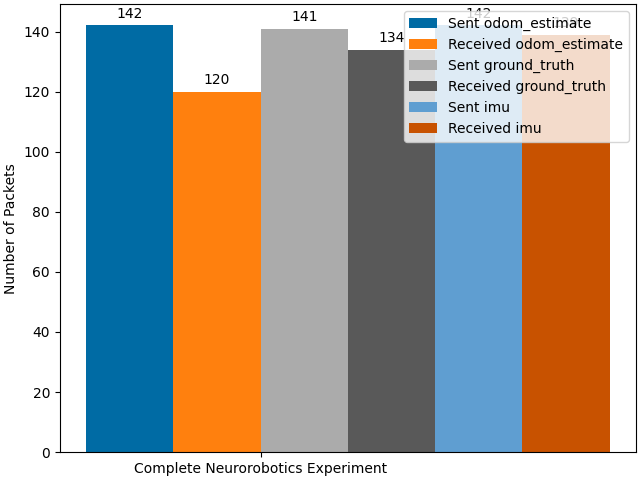
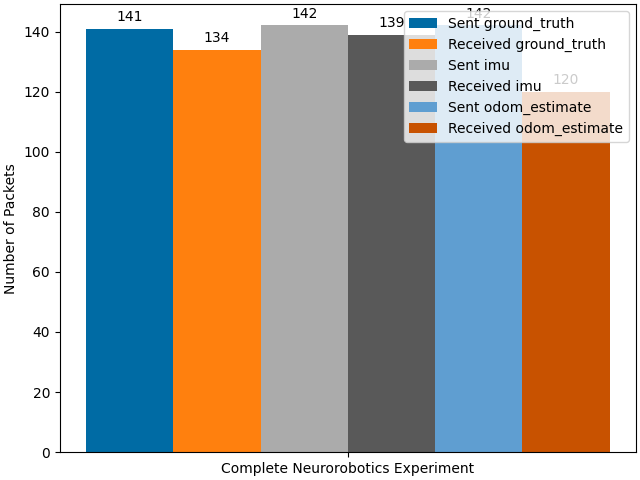
Combined graphs for neurorobotics experiments

diff --git a/metrics/metric_4_neurorobotics.py b/metrics/metric_4_neurorobotics.py
@@ -6,6 +6,7 @@ import common.plot
 import common.run
 
 import time
+import numpy as np
 
 """
 This metric measures the system load during physics and brain simulation.
@@ -38,6 +39,13 @@ def process_data():
     """
     Parses and analysis the system load results data file.
     """
+
+    combined = { common.plot.DROPPED_PACKETS          : {},
+                 common.plot.DROPPED_PACKET_PERCENT   : {},
+                 common.plot.CPU_MEAN                 : {},
+                 common.plot.MEMORY_MEAN              : {},
+                 common.plot.SIM_TIME_PERCENT_OF_REAL : {} }
+
     for name, alias in data_paths.items():
 
         print("~~~~~~~~~~~~~~~~~~~~~~~~~~~~~~~~~~~~~~~~~~")
@@ -55,7 +63,9 @@ def process_data():
         real_time_offsets = [s - real_time_samples[0] for s in real_time_samples]
         sim_time_samples = sim_time_parser.samples()
         sim_time_samples = [s - sim_time_samples[0] for s in sim_time_samples]
-        print(f"Average Time Ratio: {sim_time_samples[-1] / real_time_offsets[-1]}")
+        speed = sim_time_samples[-1] / real_time_offsets[-1]
+        combined[common.plot.SIM_TIME_PERCENT_OF_REAL][alias] = speed * 100
+        print(f"Average Time Ratio: {speed}")
         common.plot.line(f"results_data/4_neurorobotics_{name}_real_vs_simulated_time_series.png",
                         real_time_offsets,
                         sim_time_samples,
@@ -63,25 +73,32 @@ def process_data():
                         "Simulated Time (seconds)")
 
         print("==== Dropped Packets NeuROS -> NeuROS ====")
-        combined = { "Complete Neurorobotics Experiment" :
-            common.data.dropped_packet_summary(data, aliases={"odom_correction" : "head_dir_prediction"})}
-        common.plot.sent_received_packets(combined, f"results_data/4_neurorobotics_{name}_packet_counts.png")
+        pkt_loss = common.data.dropped_packet_summary(data, aliases={"odom_correction" : "head_dir_prediction"})
+        combined[common.plot.DROPPED_PACKETS][alias] = pkt_loss
+        combined[common.plot.DROPPED_PACKET_PERCENT][alias] = common.data.dropped_packet_percentage(pkt_loss)
+        common.plot.sent_received_packets(
+            { "Complete Neurorobotics Experiment" : pkt_loss},
+            f"results_data/4_neurorobotics_{name}_packet_counts.png")
 
         print("==== CPU ====")
+        cpus = []
         labels, datasets = common.plot.all_cpu_time_series(
             data_path, f"results_data/4_neurorobotics_{name}_cpu_time_series.png")
         for label, data in zip(labels, datasets):
             print(f"____ {label} ____")
-            common.data.basic_stats(data)
+            cpus.append(common.data.basic_stats(data)[0])
+        combined[common.plot.CPU_MEAN][alias] = np.mean(cpus)
 
         print("==== Memory Consumption ====")
         common.plot.memory_consumption_time_series(
             data_path, f"results_data/4_neurorobotics_{name}_memory_percent_time_series.png")
+        memory = []
         labels, datasets = common.plot.memory_consumption_time_series(
             data_path, f"results_data/4_neurorobotics_{name}_memory_absolute_time_series.png", percent=False)
         for label, data in zip(labels, datasets):
             print(f"____ {label} ____")
-            common.data.basic_stats(data)
+            memory.append(common.data.basic_stats(data)[0])
+        combined[common.plot.MEMORY_MEAN][alias] = np.mean(memory)
 
         print("==== Network ====")
         labels, datasets = common.plot.network_speeds_time_series(
@@ -89,6 +106,33 @@ def process_data():
         for label, data in zip(labels, datasets):
             print(f"____ {label} ____")
             common.data.basic_stats(data)
+
+    common.plot.sent_received_packets(
+        combined[common.plot.DROPPED_PACKETS],
+        "results_data/4_neurorobotics_combined_packet_counts.png",
+        xlabelrot=90)
+
+    common.plot.horizontal_bar(
+        "results_data/4_neurorobotics_combined_packet_delivered.png",
+        combined[common.plot.DROPPED_PACKET_PERCENT],
+        xlabel="Packets Delivered (%)")
+
+    common.plot.horizontal_bar(
+        "results_data/4_neurorobotics_combined_cpu_utilisation.png",
+        combined[common.plot.CPU_MEAN],
+        xlabel="Mean CPU Utilisation (%)")
+
+    common.plot.horizontal_bar(
+        "results_data/4_neurorobotics_combined_memory_consumption.png",
+        combined[common.plot.MEMORY_MEAN],
+        xlabel="Mean Memory Consumption (GB)")
+
+    common.plot.horizontal_bar(
+        "results_data/4_neurorobotics_percent_of_real_time_speed.png",
+        combined[common.plot.SIM_TIME_PERCENT_OF_REAL],
+        xlabel="Sim Speed as Percentage of Real Time (%)")
+
+    return combined
 
 if __name__ == '__main__':
     create_data()

diff --git a/metrics/common/plot.py b/metrics/common/plot.py
@@ -5,8 +5,12 @@ import numpy as np
 
 import common.data
 
-#main_colour = "teal"
-#plt.style.use('seaborn-v0_8-pastel')
+DROPPED_PACKETS = "Packet Loss"
+DROPPED_PACKET_PERCENT = "Packet Loss Rate"
+CPU_MEAN = "Mean CPU Utilisation"
+MEMORY_MEAN = "Mean Memory Consumption"
+SIM_TIME_PERCENT_OF_REAL = "Percentage of Real Time Speed"
+
 plt.style.use('tableau-colorblind10')
 
 def histogram(path, data, x_axis, relative_frequency=False, bins=20, xlimits=None, ylimits=None):
@@ -18,8 +22,8 @@ def histogram(path, data, x_axis, relative_frequency=False, bins=20, xlimits=Non
         plt.ylim(ylimits)
     if relative_frequency:
         data = np.array(data)
-        ax.hist(data, 
-                bins=bins, 
+        ax.hist(data,
+                bins=bins,
                 weights=np.zeros_like(data) + 100.0 / data.size)
         ax.set_ylabel('Frequency (%)', size=12)
     else:
@@ -52,7 +56,7 @@ def multi_line(path, all_labels, all_x, all_y, x_axis, y_axis):
     plt.savefig(path)
     plt.close()
 
-def multi_time_series(path, datasets, labels, y_axis, y_lim=[], 
+def multi_time_series(path, datasets, labels, y_axis, y_lim=[],
                       y_log_scale=False):
     fig = plt.figure()
     ax = fig.add_subplot(111)
@@ -86,11 +90,11 @@ def all_cpu_time_series(from_path, to_path, range_start=0, range_stop=-1):
         to_path, datasets, labels, "CPU Usage (%)", [0, 100])
     return labels, datasets
 
-def memory_consumption_time_series(from_paths, to_path, percent=True, 
+def memory_consumption_time_series(from_paths, to_path, percent=True,
                                    labels=["Default"]):
     if not isinstance(from_paths, list):
         from_paths = [from_paths]
-    
+
     gigabytes = 1024 * 1024 * 1024
     all_data = []
     for from_path in from_paths:
@@ -127,7 +131,7 @@ def network_speeds_time_series(from_path, to_path):
     data.read(parser.parse)
     receive_speeds = np.array(parser.samples())
     receive_speeds /= 1024
-    
+
     labels = ["Sent", "Received"]
     datasets = [send_speeds, receive_speeds]
     common.plot.multi_time_series(
@@ -135,11 +139,11 @@ def network_speeds_time_series(from_path, to_path):
         "Network Throughput (KB/s)", y_log_scale=True)
     return labels, datasets
 
-def sent_received_packets(combined_data, to_path):
+def sent_received_packets(combined_data, to_path, xlabelrot=None):
     groups = combined_data.keys()
     values = {}
     for _, data in combined_data.items():
-        message_types = set([k for k in data[0].keys()] + 
+        message_types = set([k for k in data[0].keys()] +
                             [k for k in data[1].keys()])
         for mt in message_types:
             sent_name = f"Sent {mt}"
@@ -150,9 +154,27 @@ def sent_received_packets(combined_data, to_path):
             if received_name not in values:
                 values[received_name] = []
             values[received_name].append(data[1][mt])
-    common.plot.grouped_multi_bar(to_path, groups, values, ylabel="Number of Packets")
+    common.plot.grouped_multi_bar(
+        to_path, groups, values, ylabel="Number of Packets", xlabelrot=xlabelrot)
 
-def grouped_multi_bar(to_path, groups, values, xlabel=None, ylabel=None, ylim=[]):
+def horizontal_bar(to_path, values, xlabel=None, ylabel=None, xlim=[]):
+    fig, ax = plt.subplots()
+    y_pos = np.arange(len(values))
+    ax.barh(y_pos, [v for _, v in values.items()], align='center')
+    ax.set_yticks(y_pos, labels=values.keys())
+    ax.invert_yaxis()
+    if xlabel:
+        ax.set_xlabel(xlabel)
+    if ylabel:
+        ax.set_ylabel(ylabel)
+    if xlim:
+        ax.set_xlim(xlim)
+    fig.tight_layout()
+    plt.savefig(to_path)
+    plt.close()
+
+def grouped_multi_bar(to_path, groups, values, xlabel=None, ylabel=None,
+                      ylim=[], xlabelrot=None):
     _, ax = plt.subplots(layout='constrained')
     x = np.arange(len(groups))
     width = 1 / (len(values.keys()) + 1)
@@ -162,7 +184,7 @@ def grouped_multi_bar(to_path, groups, values, xlabel=None, ylabel=None, ylim=[]
         rects = ax.bar(x + offset, measurement, width, label=attribute)
         ax.bar_label(rects, padding=3)
         multiplier += 1
-    ax.set_xticks(x + (width*1.5), groups)
+    ax.set_xticks(x + (width * 0.5 * (len(values) - 1)), groups)
     ax.legend(loc="best", ncols=1)
     if ylabel:
         ax.set_ylabel(ylabel)
@@ -170,5 +192,7 @@ def grouped_multi_bar(to_path, groups, values, xlabel=None, ylabel=None, ylim=[]
         ax.set_ylabel(xlabel)
     if ylim:
         ax.set_ylim(ylim)
+    if xlabelrot:
+        ax.tick_params(axis='x', labelrotation=xlabelrot)
     plt.savefig(to_path)
     plt.close()

diff --git a/metrics/common/data.py b/metrics/common/data.py
@@ -4,9 +4,12 @@ import re
 import numpy as np
 
 def basic_stats(data):
+    mean = np.mean(data)
+    std = np.std(data)
     print(f"Count: {len(data)}")
-    print(f"Mean: {np.mean(data)}")
-    print(f"Standard Deviation: {np.std(data)}")
+    print(f"Mean: {mean}")
+    print(f"Standard Deviation: {std}")
+    return mean, std
 
 def percentage_within_x_of_target(data, target, x):
     count = 0
@@ -43,9 +46,9 @@ class Parser:
 
     @classmethod
     def for_network_speed(cls, send=False):
-        return cls("\[INFO\] \[.*\] \[system-load-monitor\]: Network: " + 
+        return cls("\[INFO\] \[.*\] \[system-load-monitor\]: Network: " +
                    ("\[\d+, (\d+)\]" if send else "\[(\d+), \d+\]"))
-    
+
     @classmethod
     def for_memory_consumption(cls, percent=True):
         return cls("\[INFO\] \[.*\] \[system-load-monitor\]: Memory: " +
@@ -99,3 +102,9 @@ def dropped_packet_summary(data, aliases=None):
         dropped = count - received_counts.get(message_type, 0)
         print(f"{message_type}: {dropped * 100 / count}%")
     return sent_counts, received_counts
+
+def dropped_packet_percentage(data):
+    sent_counts, received_counts = data
+    sent     = sum(x for _, x in sent_counts.items())
+    received = sum(x for _, x in received_counts.items())
+    return received * 100 / sent
